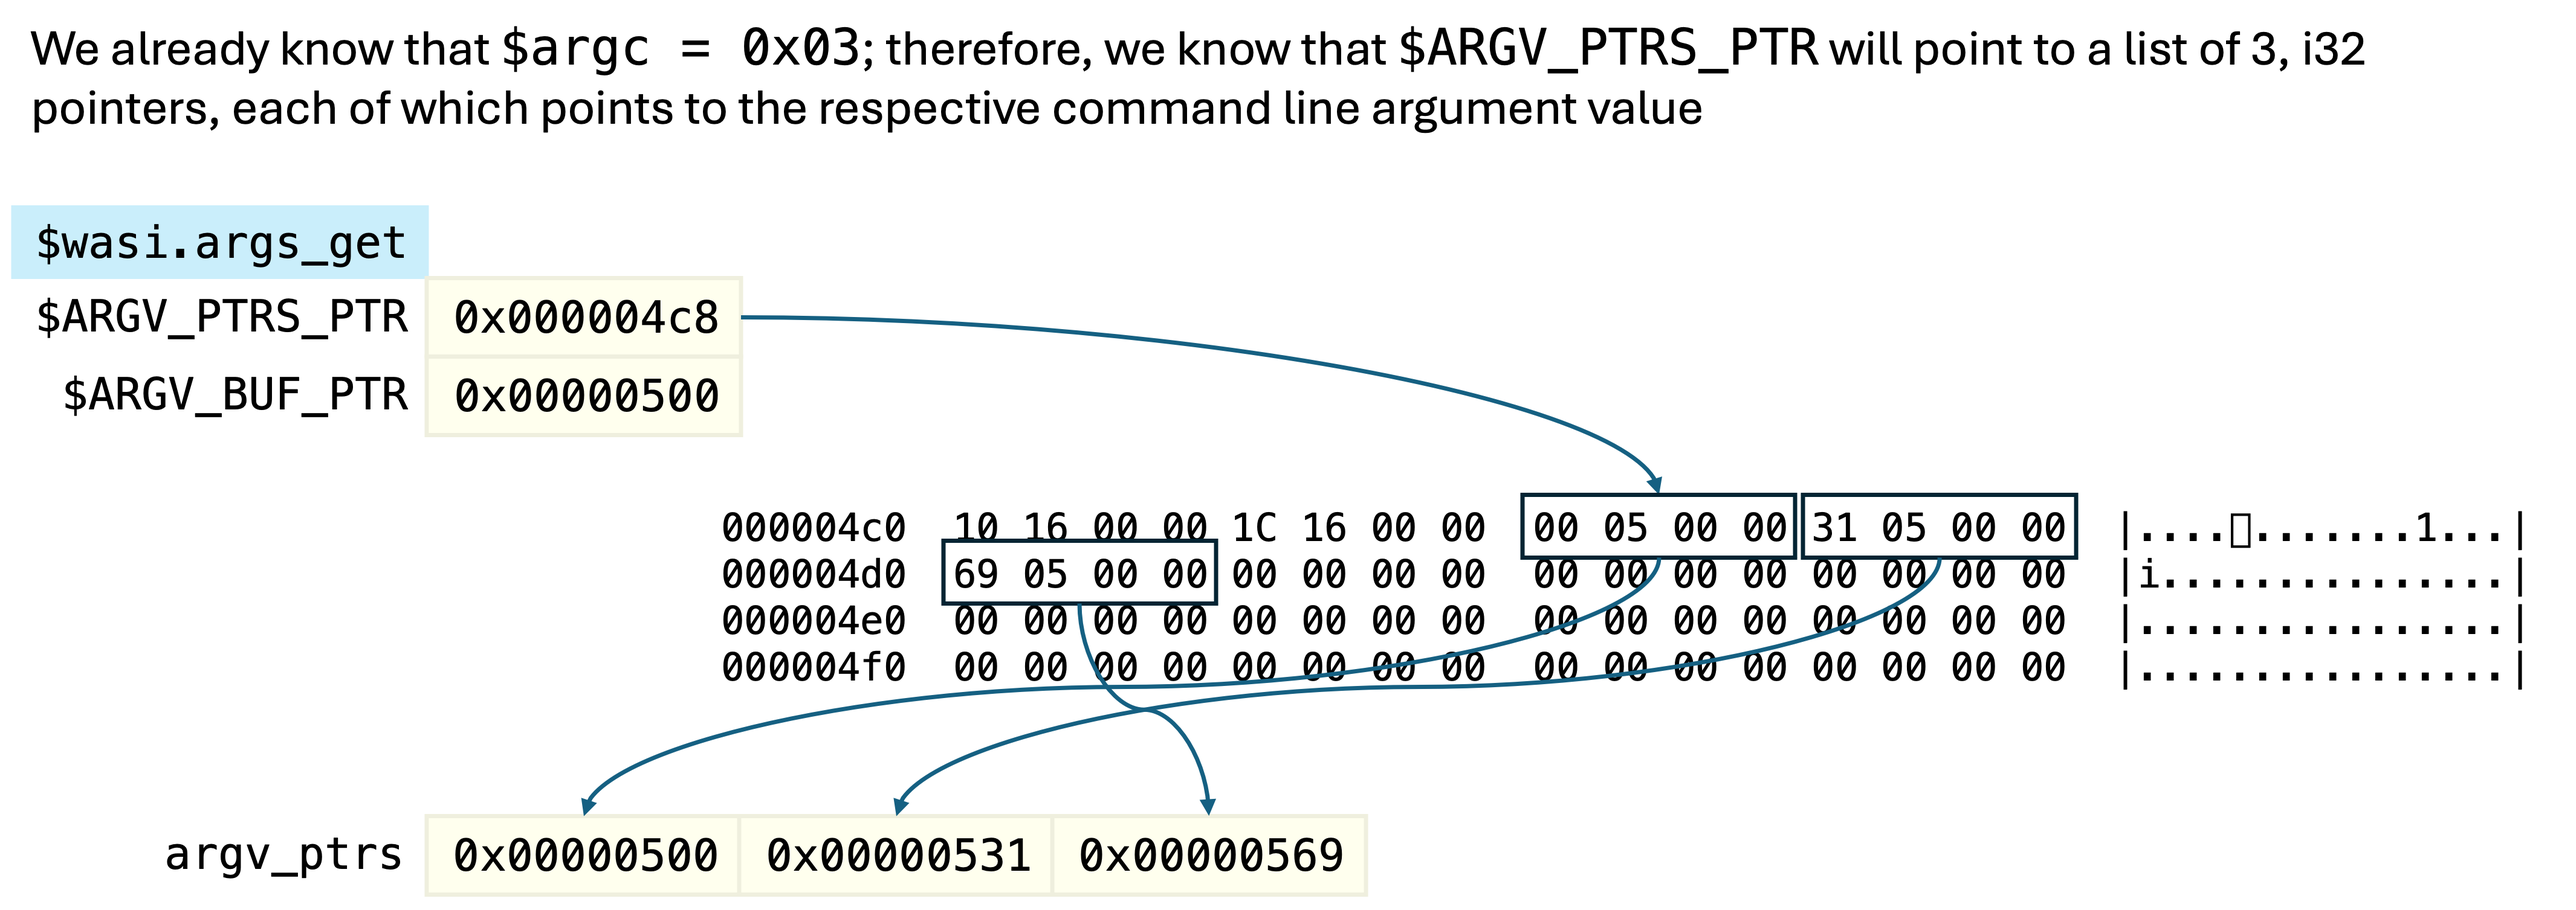
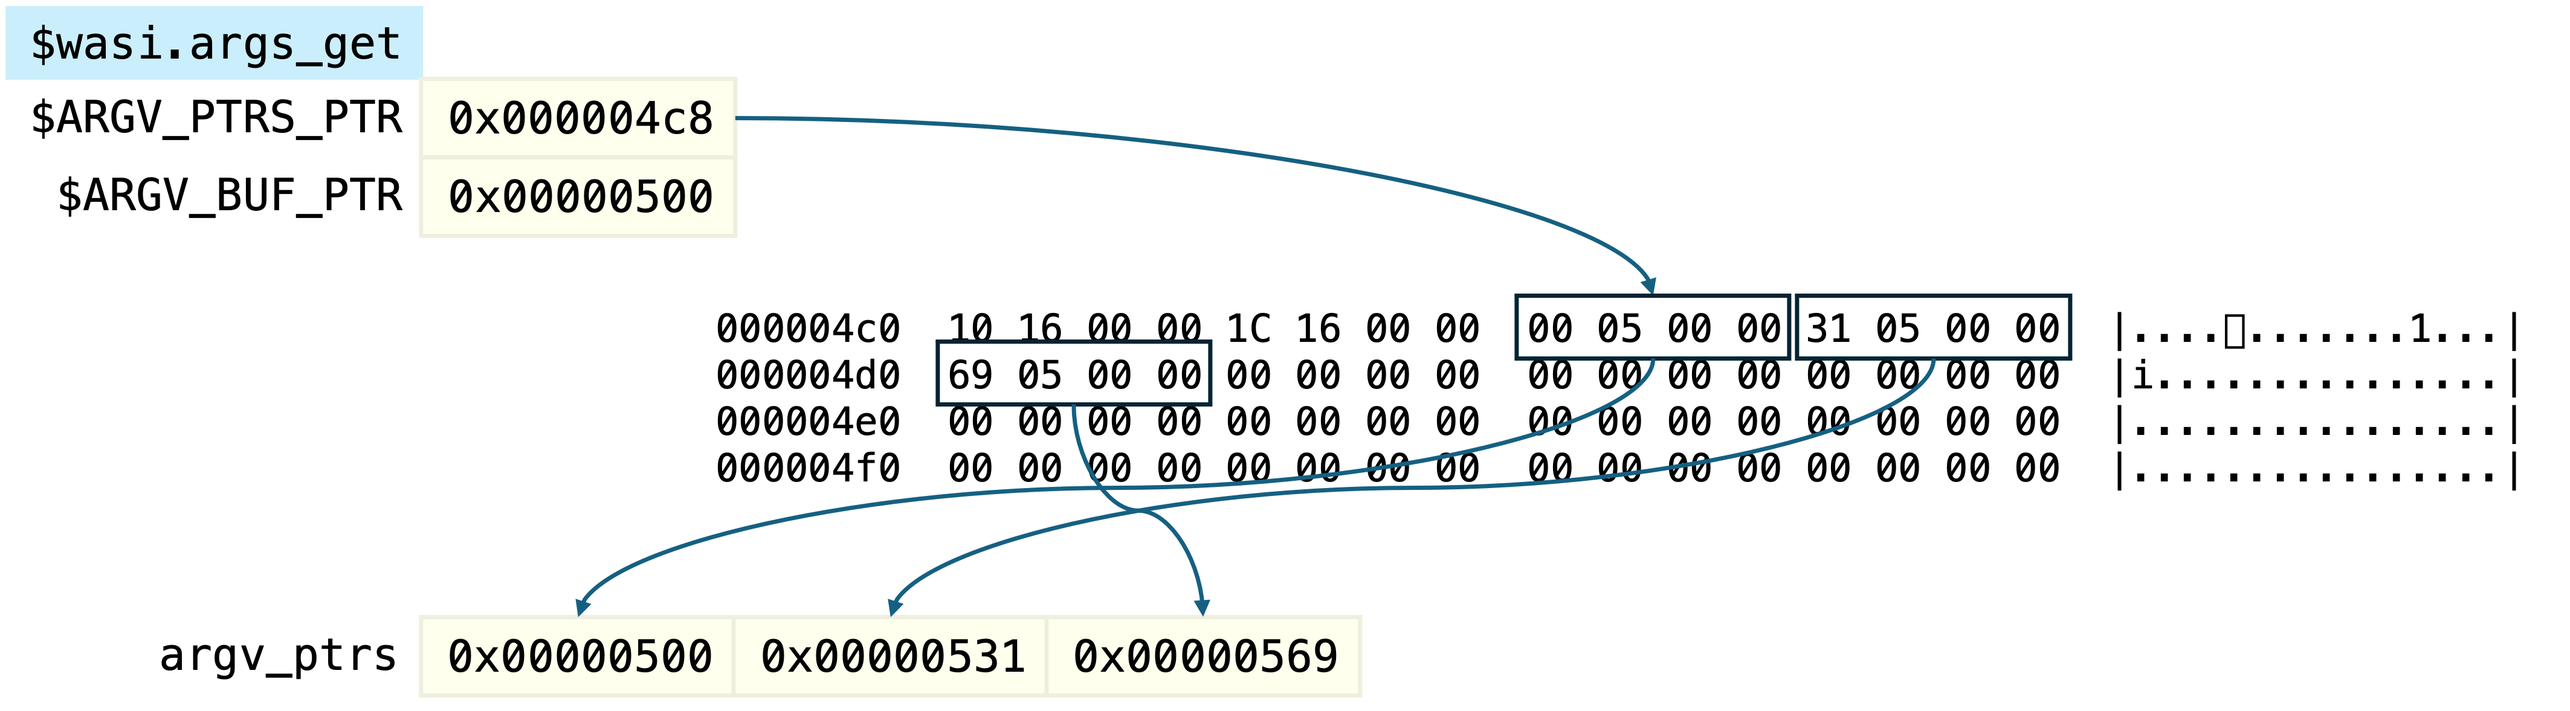
Update page 50

diff --git a/docs/050-cmd-line-args.md b/docs/050-cmd-line-args.md
@@ -60,7 +60,9 @@ Since we don't know which host environment we're being run from, we can only che
 
 ## Extract the Filename from the Last Argument
 
-No that we know that we have the right number of arguments and that they will fit in the available space, we can fetch the actual values.
+Now that we know that we have the right number of arguments and that they will fit in the available space, we can fetch the actual values.
+
+We already know that `$argc = 0x03`; therefore, we know that `$ARGV_PTRS_PTR` will point to a list of 3 `i32` pointers, each of which points to the respective command line argument value
 
 ![Calling `args_get`](../img/args_get.png)
 
